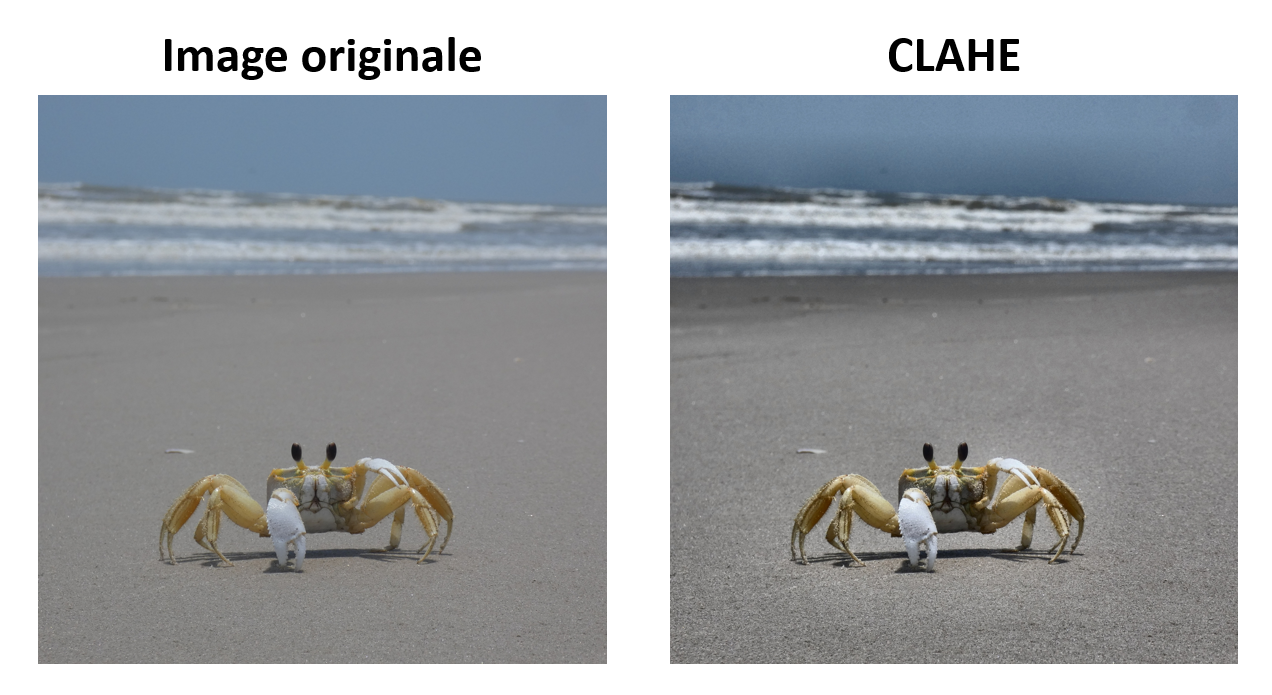
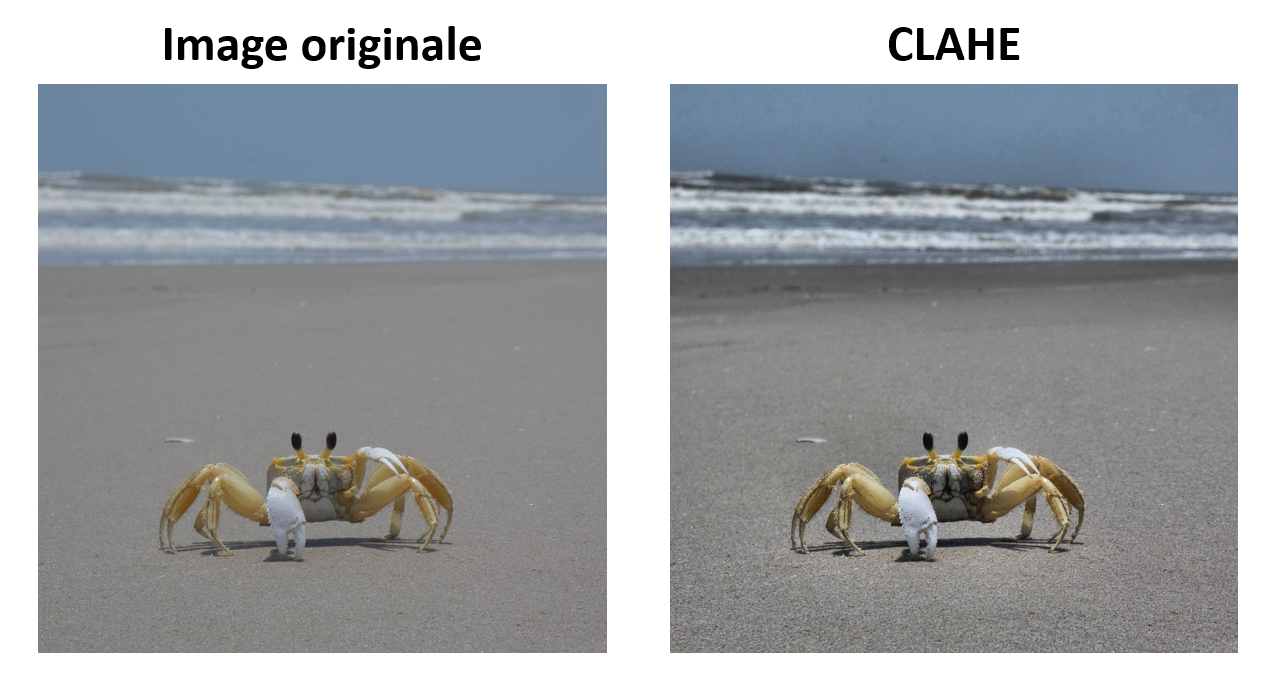
-Progress on Chapters 1/2/3/4.

diff --git a/docs/Chap4_Deep_Learning.md b/docs/Chap4_Deep_Learning.md
@@ -1,0 +1,23 @@
+# Chapitre IV : Deep Learning pour la vision
+
+---
+
+## Machine Learning
+
+### Principe de l'apprentissage supervisé
+
+### Le problème de la généralisation
+
+### Optimisation des paramètres
+
+### Optimisation des hyperparamètres
+
+## Les défis de l'apprentissage
+
+### Méthodes de régularisation
+
+### Data augmentation
+
+### Attention aux biais de données !
+
+## Transfer Learning

diff --git a/docs/Chap1_Introduction_images.md b/docs/Chap1_Introduction_images.md
@@ -47,6 +47,8 @@ N'hésitez pas à aller regarder les détails de la prise de vue des différente
 
 ### C'est quoi la vision ?
 
+![Image exemple du Chapitre 1](img/Chap1_exemple_image_ghost_crab.png)
+
 ## La caméra : une machine à faire du 2D
 
 ### Sténopé et chambre noire

diff --git a/docs/Chap3_Reseaux_convolutifs.md b/docs/Chap3_Reseaux_convolutifs.md
@@ -1,0 +1,9 @@
+# Chapitre III : Réseaux de neurones convolutifs
+
+---
+
+## Les réseaux de neurones (NN)
+
+## Le Perceptron Multi-Couche (MLP)
+
+## Les Réseaux de Neurones Convolutifs (CNN)

diff --git a/docs/Chap2_Filtrage_transformation.md b/docs/Chap2_Filtrage_transformation.md
@@ -1,0 +1,5 @@
+# Chapitre II : Traitement d'image par filtrage et transformation
+
+---
+
+##
